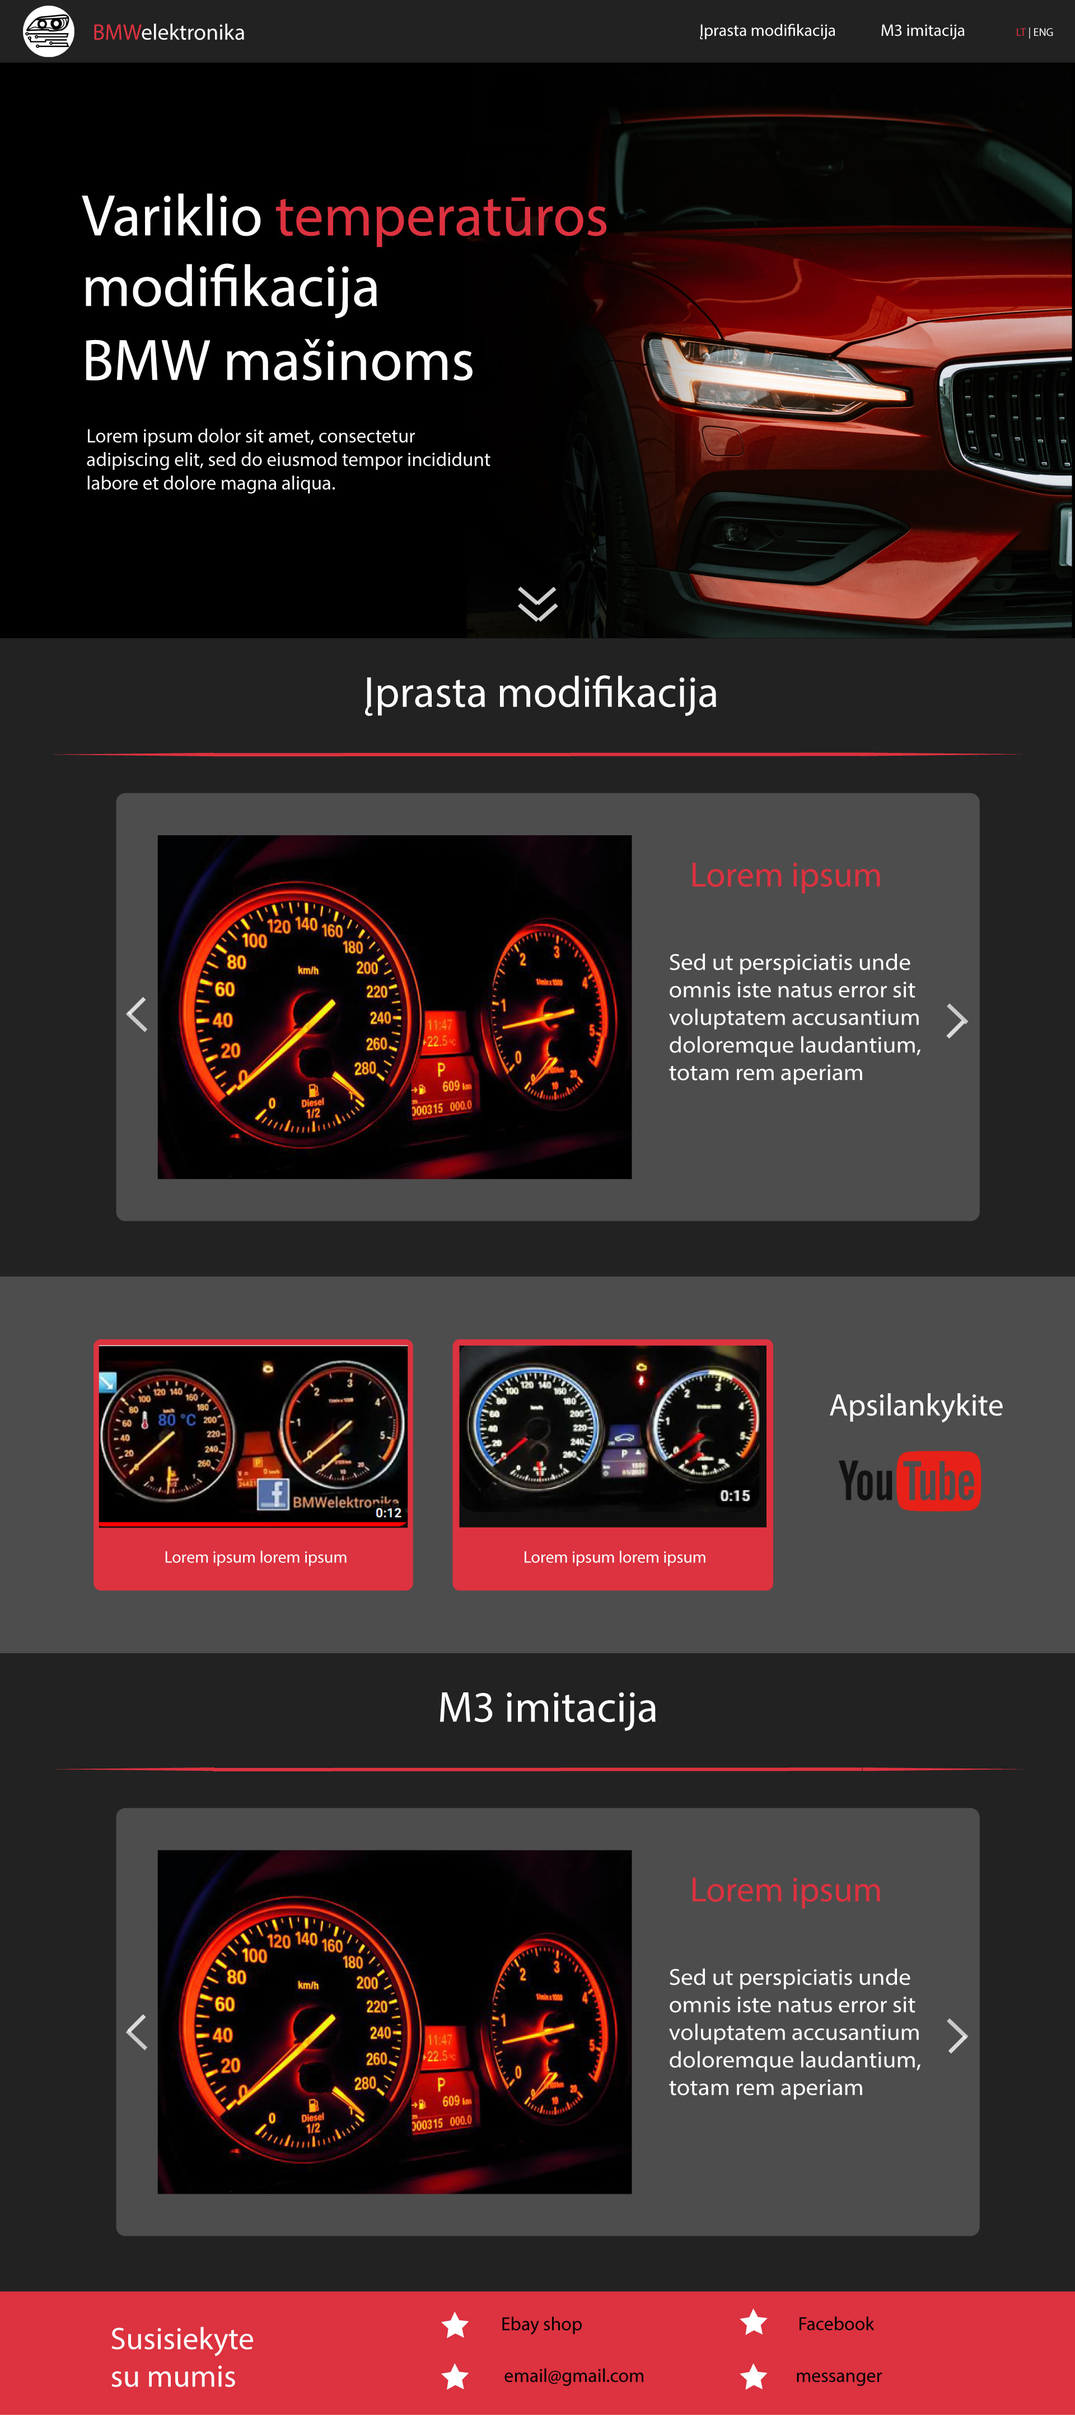
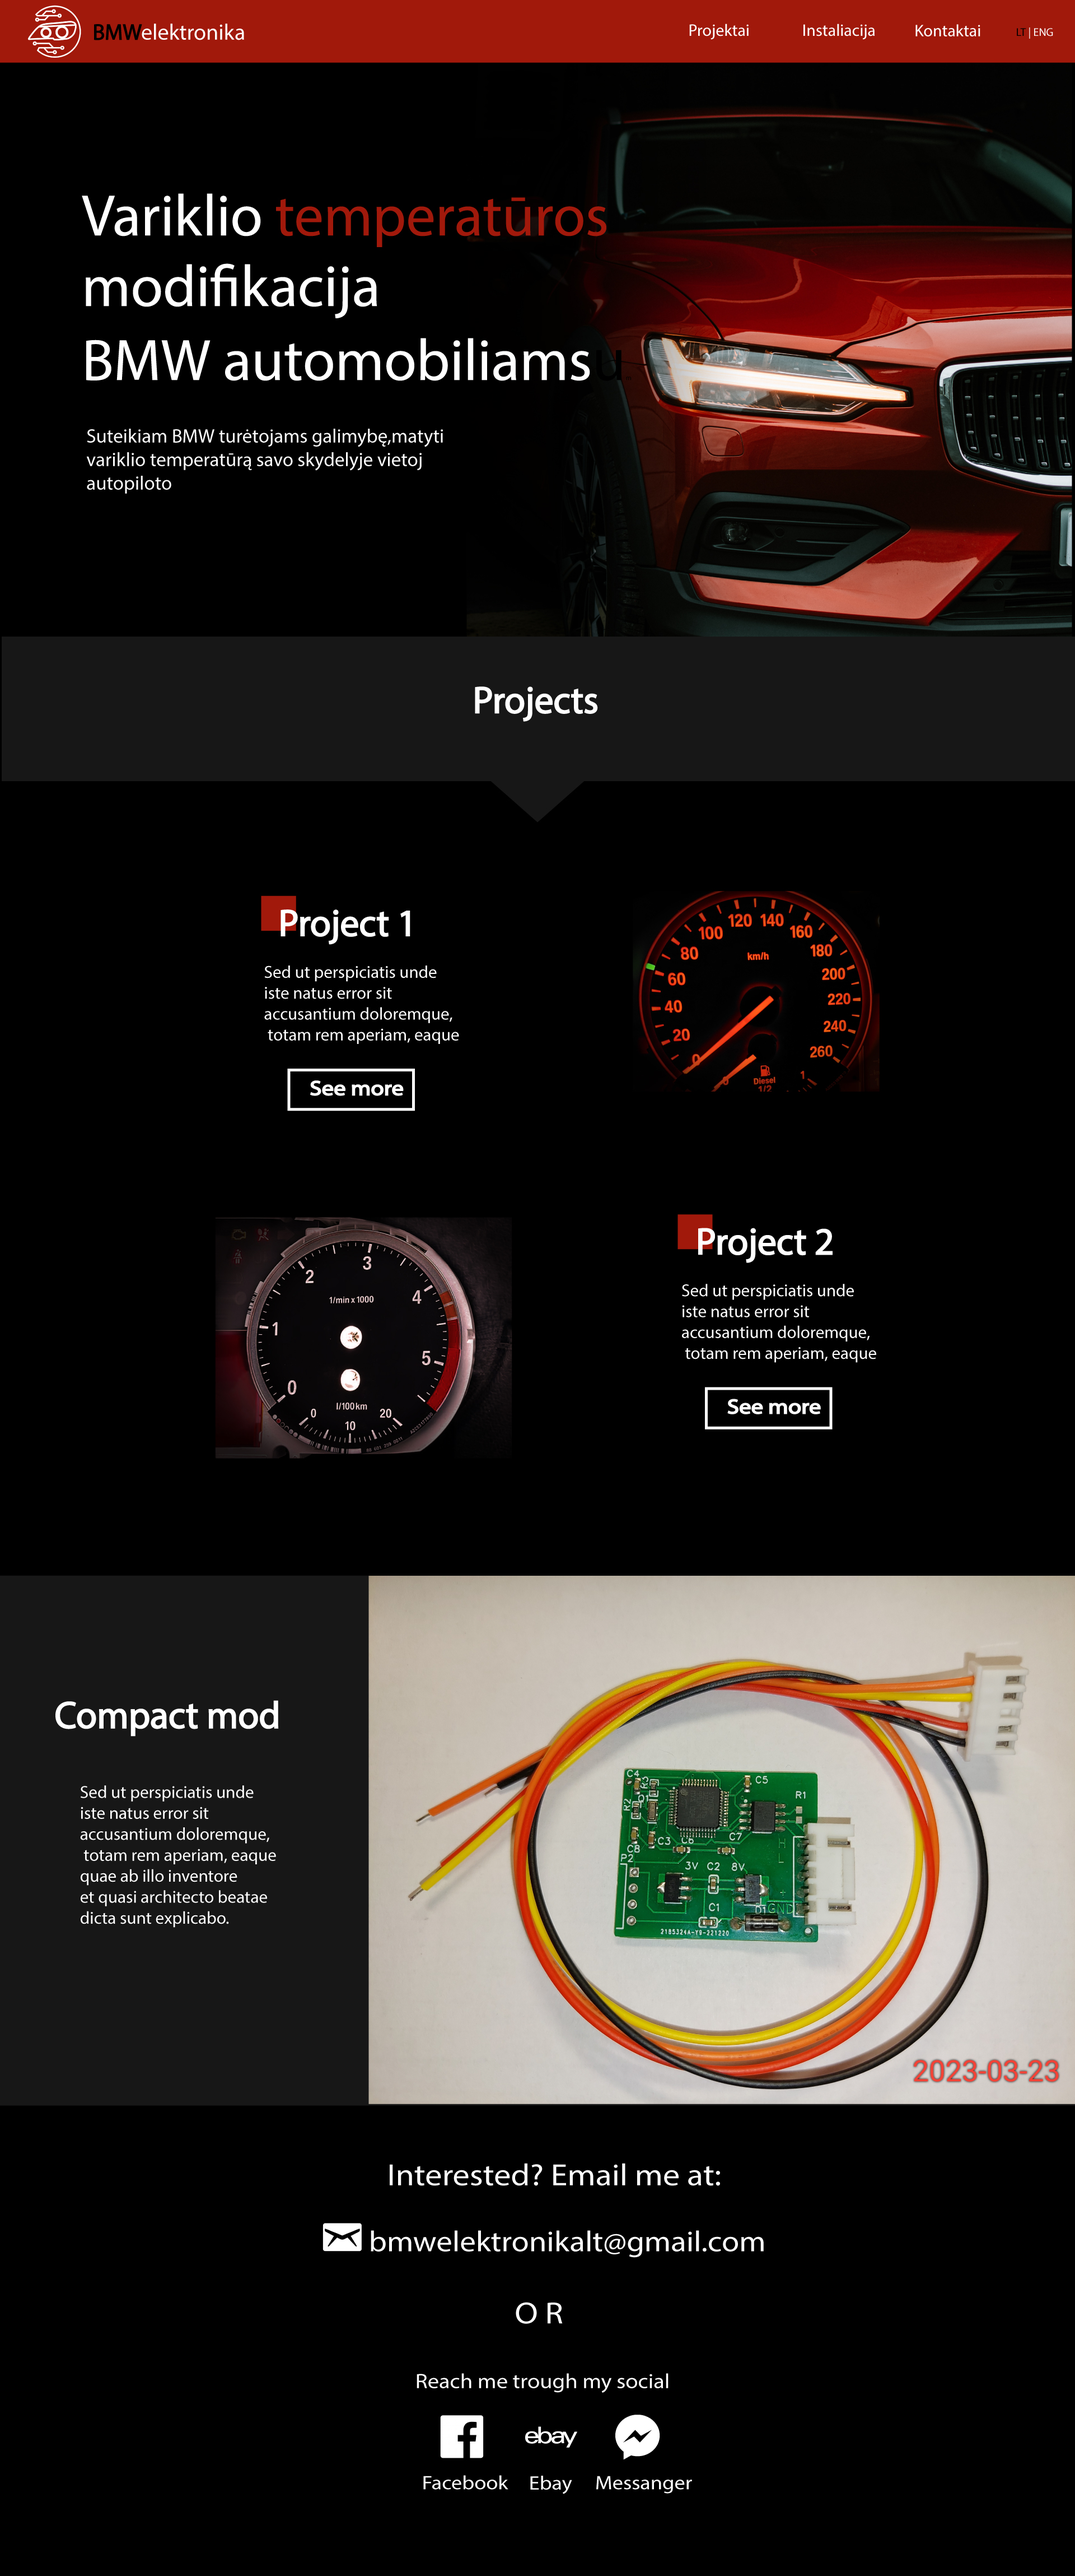
add social links

diff --git a/src/Components/Contact/Contact.jsx b/src/Components/Contact/Contact.jsx
@@ -8,24 +8,30 @@ export default function Contact() {
   return (
     <section className={styles.contact}>
       <div className={styles.contactBody}>
-        <h1 className={styles.contact}>Interested? Email me at:</h1>
+        <h1 className={styles.contact}>Domina? Parašykite mums:</h1>
         <h1 className={styles.email}>
           <img src={email} alt="email icon" /> bmwelektronikalt@gmail.com
         </h1>
-        <span className={styles.text}>O&nbsp; &nbsp;R</span>
-        <p className={styles.text}>Reach me through my social:</p>
+        <span className={styles.text}>A &nbsp; &nbsp; R &nbsp; & nbsp; B &nbsp; & nbsp; A</span>
+        <p className={styles.text}>Susisiekite su mumis:</p>
         <div className={styles.socials}>
           <div className={styles.social}>
-            <img src={facebook} alt="facebook icon" />
-            <div>Facebook</div>
+            <a href="facebook.com/BMWengineTemperatureMod" target="blank">
+              <img src={facebook} alt="facebook icon" />
+              <div>Facebook</div>
+            </a>
           </div>
           <div className={styles.social}>
-            <img src={ebay} alt="ebay icon" />
-            <div>Ebay</div>
+            <a href="https://www.ebay.com/itm/285156702744?mkcid=16&mkevt=1&mkrid=711-127632-2357-0&ssspo=QZxotanyS9u&sssrc=2047675&ssuid=&widget_ver=artemis&media=COPY" target="blank">
+              <img src={ebay} alt="ebay icon" />
+              <div>Ebay</div>
+            </a>
           </div>
           <div className={styles.social}>
-            <img src={messenger} alt="messenger icon" />
-            <div>Messenger</div>
+            <a href="m.me/104530015573802" target="blank">
+              <img src={messenger} alt="messenger icon" />
+              <div>Messenger</div>
+            </a>
           </div>
         </div>
       </div>
